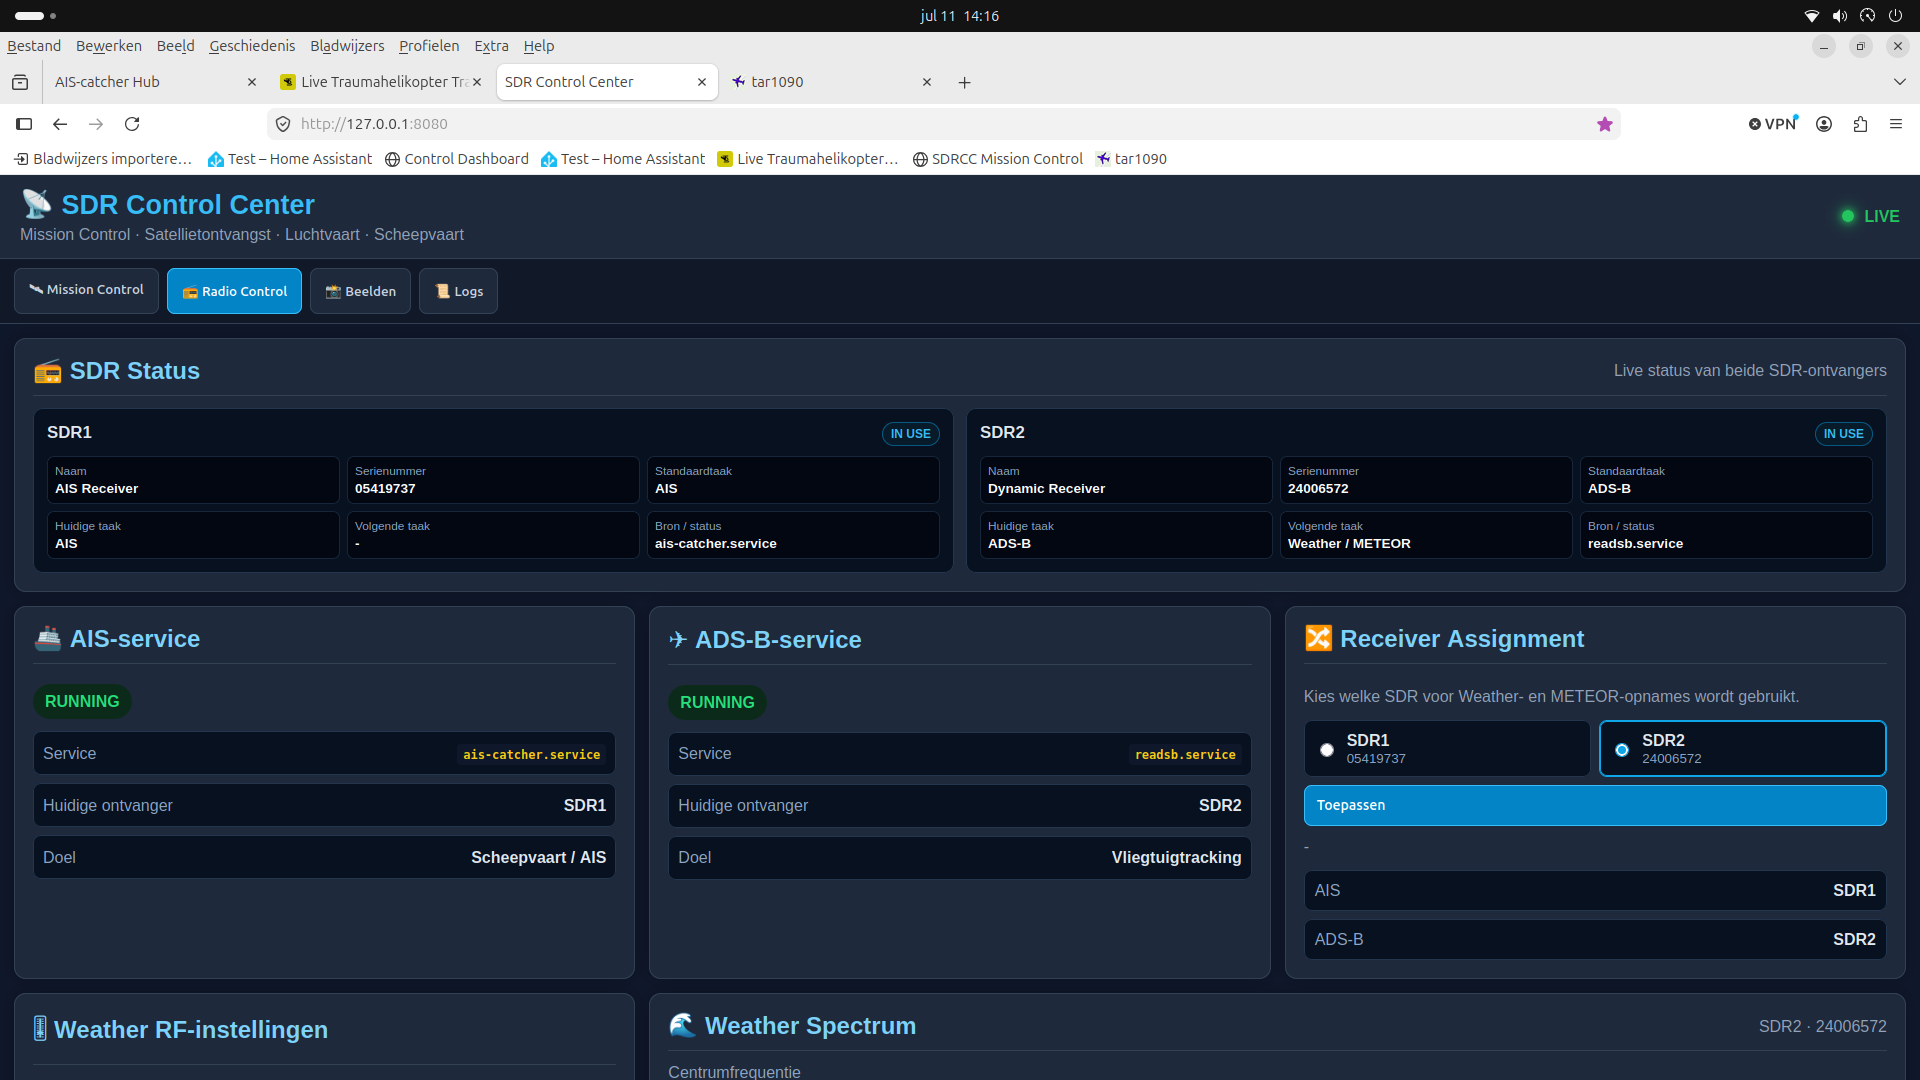
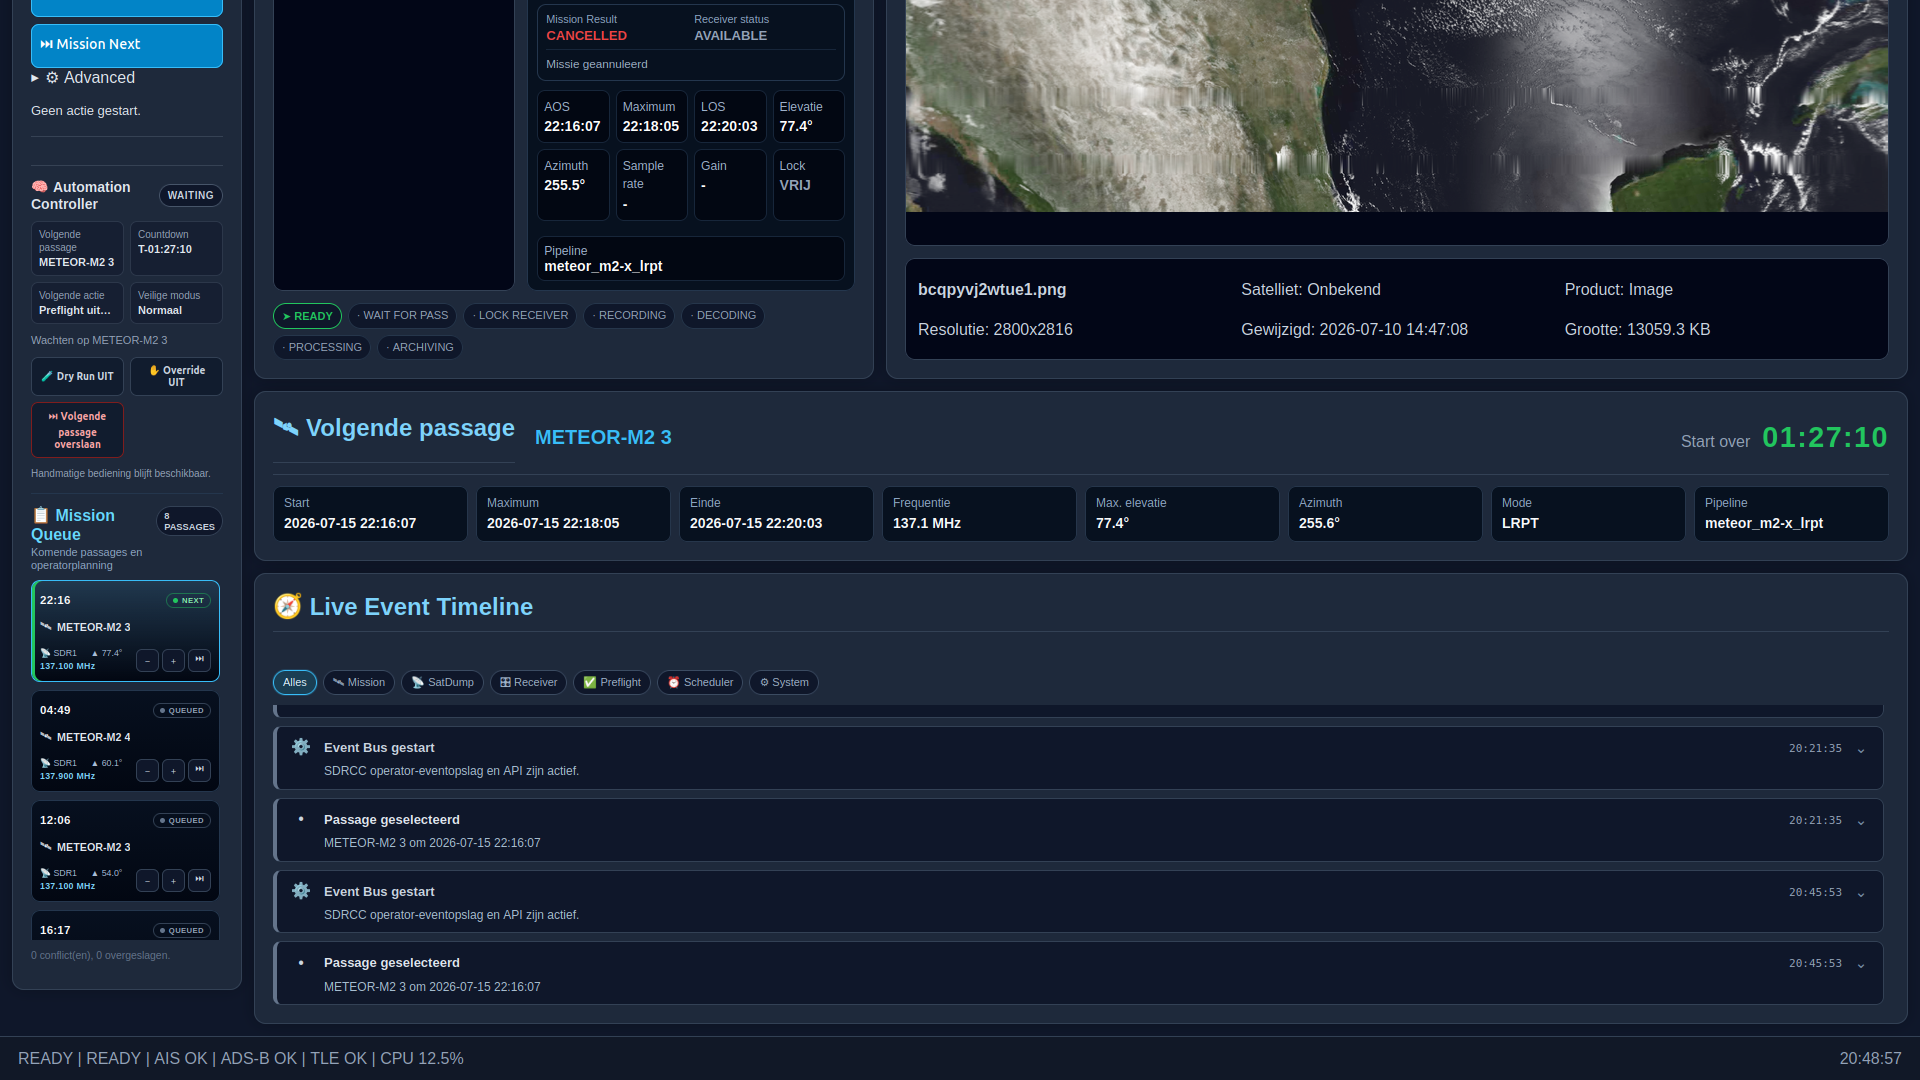
docs: update README for v0.21.1

diff --git a/README.md b/README.md
@@ -1,38 +1,89 @@
 <p align="center">
-  <img src="dashboard/static/assets/sdrcc.png" alt="SDRCC logo" width="220">
+  <img src="dashboard/static/assets/sdrcc.png" alt="SDRCC logo" width="180">
 </p>
 
 <h1 align="center">SDR Control Center</h1>
 
 <p align="center">
-  Mission Control voor een multi-receiver Software Defined Radio ground station.
+  Mission Control voor een lokaal multi-receiver SDR-groundstation.
 </p>
 
 <p align="center">
-  <strong>Versie 0.14.3</strong> · Ubuntu · Python · Flask · RTL-SDR · SatDump
+  <strong>Ontwikkelstatus: v0.21.1</strong><br>
+  Ubuntu 26.04 · Python 3.14 · Flask · RTL-SDR · SatDump · AIS-catcher · readsb
 </p>
 
 ## Over SDRCC
 
-SDR Control Center, kortweg **SDRCC**, brengt satellietontvangst, AIS, ADS-B en SDR-beheer samen in één lokaal dashboard. Het systeem plant METEOR-passes, beheert ontvangers en services, start SatDump automatisch en registreert het resultaat van elke missie.
+**SDR Control Center (SDRCC)** brengt satellietontvangst, AIS, ADS-B, receiverbeheer en missieautomatisering samen in één lokaal dashboard. Het systeem plant METEOR-passages, reserveert een gekozen SDR, schakelt conflicterende services gecontroleerd uit, start SatDump, bewaakt de missie en herstelt daarna de normale receivertaak.
 
-De huidige installatie gebruikt twee RTL-SDR-ontvangers met dynamische taaktoewijzing. De Weather/METEOR-ontvanger kan vanuit het dashboard aan SDR1 of SDR2 worden toegewezen.
+SDRCC is ontwikkeld als een echte groundstation-cockpit: de operator ziet in één overzicht wat eraan komt, welke receiver actief is, welke services draaien en wat het resultaat van eerdere missies was.
+
+## Huidige hardware-indeling
+
+| Receiver | Serienummer | Normale taak | Dynamische taak |
+|---|---:|---|---|
+| SDR1 | `05419737` | AIS | Weather / METEOR |
+| SDR2 | `24006572` | ADS-B | Weather / METEOR |
+
+De Weather/METEOR-receiver is vanuit **Radio Control** selecteerbaar. SDRCC gebruikt uitsluitend de receiver die door de operator is gekozen. Tijdens een missie wordt alleen de conflicterende service op die receiver tijdelijk gestopt en na afloop hersteld.
 
 ## Belangrijkste functies
 
-- Mission Engine met toestanden van `READY` tot `ARCHIVING`
-- AUTO, MANUAL en PAUSED Mission Scheduler
-- TLE-update en pass prediction voor METEOR-M2 3 en METEOR-M2 4
-- Automatische voorbereiding, receiver-lock, opname, decode en herstel
-- Mission Timeline en opgeslagen missie-uitkomsten
-- Resultaten zoals `SUCCESS`, `NO SYNC`, `NO SIGNAL` en `FAILED`
-- AIS-servicebeheer via `ais-catcher.service`
-- ADS-B-servicebeheer via `readsb.service`
-- Dynamische Weather Receiver Assignment voor SDR1 of SDR2
-- RF-instellingen voor gain, DC block en IQ swap
-- Weather-spectrumdiagnose via `rtl_power`
-- Live systeemstatus, laatste ontvangst, beeldweergave en logs
-- Automatische start van het SDRCC-dashboard via systemd
+### Mission Control
+
+- Mission Engine met de toestanden `READY`, `WAIT FOR PASS`, `LOCK RECEIVER`, `RECORDING`, `DECODING`, `PROCESSING` en `ARCHIVING`.
+- Mission Scheduler met `AUTO`, `MANUAL` en `PAUSED`.
+- Mission Queue met volledige satellietnaam, tijd, receiver, frequentie en elevatie.
+- Automation Controller voor veilige voorbereiding en uitvoering.
+- Event Bus en Live Event Timeline.
+- Veilige **STOP MISSION**-actie met annulering, receiver-release en serviceherstel.
+- Virtual Mission voor hardwarevrije workflowtests.
+- Centrale frontend-`MissionState` als één bron van waarheid.
+- ETA naar preflight, prepare, receiver lock en opname.
+
+### Satellietontvangst
+
+- Pass prediction voor **METEOR-M2 3** en **METEOR-M2 4**.
+- Configureerbare minimale elevatie.
+- SatDump LRPT-pipeline.
+- Live RF-telemetrie: SNR, peak-SNR, BER, frames, CADU-bytes, Viterbi, Deframer en images.
+- Automatische missieclassificatie, waaronder `SUCCESS`, `NO SIGNAL`, `NO SYNC`, `NO IMAGES`, `FAILED` en `CANCELLED`.
+- Mission Diagnostics en opgeslagen pass-elevatie.
+- Offline decode en image gallery voor alle producten van een missie.
+
+### Receiver Monitor
+
+- Dynamische statuskaart per fysieke SDR.
+- AIS-statistieken:
+  - aantal schepen;
+  - berichten per seconde uit `journalctl`;
+  - maximaal bereik;
+  - actieve service en frequentie.
+- ADS-B-statistieken:
+  - aantal vliegtuigen van de laatste 60 seconden;
+  - aantal vliegtuigen met positie;
+  - berichten per seconde;
+  - maximaal bereik.
+- Weather/METEOR-status tijdens een actieve missie.
+
+### Radio Control
+
+- Dynamische Weather Receiver Assignment.
+- Gain-modus en tuner gain.
+- DC block en IQ swap.
+- Korte spectrum-momentopname met `rtl_power` wanneer de gekozen SDR beschikbaar is.
+- Live RF Console tijdens een SatDump-missie.
+
+> **Spectrumbeperking:** dezelfde RTL-SDR kan niet gelijktijdig door SatDump en `rtl_power` worden geopend. De spectrummeting is daarom een korte momentopname wanneer de receiver vrij is. Tijdens een missie toont SDRCC decodertelemetrie; er is op dit moment geen live waterfall van dezelfde dongle.
+
+### History en beelden
+
+- Mission History met filters, KPI's en missie-details.
+- Mission Quality, Mission Summary en Event Timeline.
+- Inventaris van recording, images, logs, telemetry en diagnostics.
+- Klikbare image gallery met alle producten uit een missie.
+- Laatste ontvangst en aparte Beelden-pagina.
 
 ## Dashboard
 
@@ -40,103 +91,163 @@ De huidige installatie gebruikt twee RTL-SDR-ontvangers met dynamische taaktoewi
 
 ![Mission Control](docs/screenshots/mission-control.png)
 
-Mission Control toont de systeemstatus, missiestatus, laatste missie, laatste ontvangst, volgende passage en de Mission Timeline.
+De centrale cockpit met systeemstatus, bediening, Automation Controller, Mission Queue, actuele missie, volgende passage en Live Event Timeline.
 
 ### Radio Control
 
 ![Radio Control](docs/screenshots/radio-control.png)
 
-Radio Control toont de actuele taken van beide SDR-ontvangers, AIS- en ADS-B-services, receiver assignment, RF-instellingen en spectrumdiagnose.
+Receiverstatus, AIS- en ADS-B-statistieken, Weather Receiver Assignment en RF-instellingen.
 
-## Huidige hardware-indeling
+![Spectrum en Live RF Console](docs/screenshots/radio-spectrum-rf-console.png)
 
-| Ontvanger | Serienummer | Standaardtaak | Dynamische taak |
-|---|---:|---|---|
-| SDR1 | `05419737` | AIS | Weather / METEOR |
-| SDR2 | `24006572` | ADS-B | Weather / METEOR |
+De spectrummeting werkt als idle scan. Tijdens een Weather-missie wordt de Live RF Console gevuld met SatDump-telemetrie.
 
-De Weather/METEOR-taak is via het dashboard selecteerbaar. Tijdens een missie stopt SDRCC alleen de conflicterende service op de gekozen ontvanger en herstelt deze na afloop.
+### Mission History
+
+![Mission History](docs/screenshots/mission-history.png)
+
+![Mission History details](docs/screenshots/mission-history-details.png)
+
+Blijvend overzicht van voltooide, mislukte en geannuleerde missies, inclusief events, kwaliteit, bestanden en diagnostics.
+
+### Beelden
+
+![Beelden](docs/screenshots/images.png)
+
+Weergave van het nieuwste product en recente satellietbeelden.
+
+### Logs
+
+![Logs](docs/screenshots/logs.png)
+
+Live applicatielog voor scheduler-, receiver-, SatDump- en missieactiviteiten.
+
+## Architectuur
+
+```text
+Mission Queue
+      ↓
+Automation Controller
+      ↓
+Receiver Manager
+      ↓
+Mission Scheduler
+      ↓
+Mission Engine
+      ↓
+SatDump
+      ↓
+Mission Result / Diagnostics / History / Images
+```
+
+Belangrijke ondersteunende onderdelen:
+
+```text
+Event Bus          → operationele gebeurtenissen
+MissionState       → centrale frontendstatus
+Receiver Monitor   → AIS, ADS-B en Weather-statistieken
+Mission Operations → samengevoegde operationele API-status
+```
 
 ## Missieverloop
 
 | Moment | Actie |
 |---|---|
-| T-5 minuten | Preflight |
-| T-90 seconden | Receiver voorbereiden |
-| T-30 seconden | Receiver lock |
+| T-5 minuten | Preflightcontroles |
+| T-90 seconden | Receiver en services voorbereiden |
+| T-30 seconden | Receiver reserveren en locken |
 | T-0 | SatDump starten |
-| Na passage | Resultaat analyseren, service herstellen en profiel terugzetten |
+| Tijdens passage | Recording en live decodertelemetrie |
+| Na LOS | Decode, processing en archivering |
+| Afronding | Resultaat bepalen, receiver vrijgeven en service herstellen |
 
-## Projectstructuur
+## Belangrijke services
 
-```text
-SDRCC/
-├── config/                 # Station-, profiel- en schedulerconfiguratie
-├── core/                   # Mission Engine, scheduler, SatDump en RF-logica
-├── dashboard/              # Flask-app, templates, JavaScript, CSS en assets
-├── data/                   # TLE, state, opnames en gegenereerde data
-├── scripts/                # CLI en onderhoudsscripts
-├── logs/                   # SDRCC-logbestanden
-├── README.md
-└── VERSION
-```
+| Service | Functie |
+|---|---|
+| `sdrcc.service` | Flask-dashboard en SDRCC-controller |
+| `ais-catcher.service` | AIS-ontvangst op de toegewezen receiver |
+| `ais-catcher-control.service` | Gecontroleerd AIS-servicebeheer |
+| `readsb.service` | ADS-B-ontvangst |
 
-## Starten
-
-SDRCC draait als systemd-service:
+Status controleren:
 
 ```bash
-sudo systemctl start sdrcc.service
 systemctl status sdrcc.service --no-pager
+systemctl status ais-catcher.service --no-pager
+systemctl status readsb.service --no-pager
 ```
 
-Dashboard:
+## Dashboard starten
+
+SDRCC draait standaard op:
 
 ```text
 http://127.0.0.1:8080
 ```
 
-Vanaf een ander apparaat gebruik je het LAN-adres van de SDRCC-computer, bijvoorbeeld:
+De service starten of herstarten:
 
-```text
-http://192.168.178.34:8080
+```bash
+sudo systemctl restart sdrcc.service
+systemctl status sdrcc.service --no-pager -l
 ```
 
-AIS en ADS-B worden bewust handmatig gestart vanuit het Control Panel. Alleen het SDRCC-dashboard start automatisch na een reboot.
+Recente fouten controleren:
 
-## Ontwikkelstatus
+```bash
+journalctl -u sdrcc.service --since "5 minutes ago" --no-pager \
+  | grep -E 'Traceback|ERROR| 500 ' || true
+```
 
-**v0.14.3** bevat onder andere:
+## Belangrijkste API-endpoints
 
-- vernieuwde Mission Control-layout
-- horizontale kaart voor de volgende passage
-- Mission Result en Mission History
-- configureerbare Weather Receiver Assignment
-- dynamische SDR-taakstatus
-- RF-instellingen en spectrumdiagnose
-- vernieuwde SDRCC-branding
+| Endpoint | Functie |
+|---|---|
+| `GET /api/mission-operations` | Gecombineerde missie-, RF- en receiverstatus |
+| `GET /api/mission-engine` | Mission Engine-status |
+| `POST /api/mission/stop` | Actieve missie gecontroleerd stoppen |
+| `GET /api/mission-queue` | Komende passages en queue-status |
+| `GET /api/automation-controller` | Automation Controller-status |
+| `GET /api/receiver-manager` | Receiverreservering en laatste release |
+| `GET /api/receiver-monitor` | AIS-, ADS-B- en Weather-statistieken per SDR |
+| `GET /api/live-rf` | Live SatDump-telemetrie |
+| `GET /api/mission-history` | Mission History-overzicht |
+| `GET /api/mission-history/<id>` | Details, events, files en gallery van een missie |
+| `GET /api/capture-status` | Laatste beschikbare afbeelding |
 
-## Roadmap
+## Projectstructuur
 
-### v0.15 — Live RF Console
-
-- live spectrum
-- waterfall
-- live SNR en peak hold
-- decoder-lock, Viterbi- en deframerstatus
-- framecounter en ontvangsttelemetrie tijdens een passage
-
-### v0.16
-
-- uitgebreidere beeldgalerij
-- meerdere satellietprofielen
-- extra decoder- en opnamepijplijnen
-
-### v1.0
-
-- volledig autonome multi-SDR ground station controller
-- stabiele installatie- en upgradeprocedure
-- uitgebreide status-, fout- en herstelrapportage
+```text
+SDRCC/
+├── config/                    # Station-, profiel- en satellietconfiguratie
+├── core/
+│   ├── automation_controller.py
+│   ├── event_bus.py
+│   ├── live_rf.py
+│   ├── mission_diagnostics.py
+│   ├── mission_engine.py
+│   ├── mission_operations.py
+│   ├── mission_queue.py
+│   ├── mission_result.py
+│   ├── mission_scheduler.py
+│   ├── receiver_manager.py
+│   ├── receiver_monitor.py
+│   └── satdump.py
+├── dashboard/
+│   ├── app.py
+│   ├── static/
+│   └── templates/
+├── data/
+│   ├── recordings/
+│   ├── state/
+│   └── tle/
+├── docs/screenshots/
+├── scripts/
+├── README.md
+└── VERSION
+```
 
 ## Ontwikkeling
 
@@ -146,14 +257,42 @@ De actieve ontwikkelbranch is:
 develop
 ```
 
-Controleer vóór wijzigingen altijd:
+Voor iedere wijziging:
 
 ```bash
 cd ~/SDRCC
 git status
+git diff --check
 git log --oneline -5
 ```
 
+De ontwikkelwerkwijze bestaat uit kleine, testbare commits. Grote wijzigingen worden eerst geanalyseerd; de dashboardlayout wordt alleen gewijzigd wanneer dat expliciet nodig is.
+
+## Roadmap
+
+### v0.22 — Live Weather Mission
+
+- echte METEOR-missie van preflight tot imageproduct verder valideren;
+- live SatDump-telemetrie verfijnen;
+- spectrum-momentopname afronden met frequentie-as, piek en ruisvloer;
+- nieuwste missiebeelden automatisch en correct aan missiegegevens koppelen;
+- operationele diagnose van decoder- en imagepipeline verbeteren.
+
+### v0.23 — Mission Analytics
+
+- SNR- en framestatistieken per missie;
+- prestaties per satelliet en elevatie;
+- succespercentage en ontvangstkwaliteit;
+- historische trends en beste ontvangst.
+
+### Richting v1.0
+
+- volledig autonome groundstation-workflow;
+- pluginarchitectuur voor extra SDR-toepassingen;
+- stabiele installatie- en upgradeprocedure;
+- uitgebreide health monitoring en foutdiagnose;
+- publieke, gedocumenteerde API v1.
+
 ## Opmerking
 
-SDRCC is momenteel afgestemd op de lokale hardware- en serviceconfiguratie van het ground station. Controleer serienummers, service-namen, locatie en frequenties voordat je het project op een andere installatie gebruikt.
+SDRCC is momenteel afgestemd op de lokale hardware- en serviceconfiguratie van dit groundstation. Controleer serienummers, service-namen, locatie, antennes en frequenties voordat het project op een andere installatie wordt gebruikt.